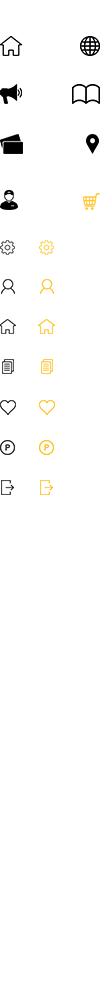
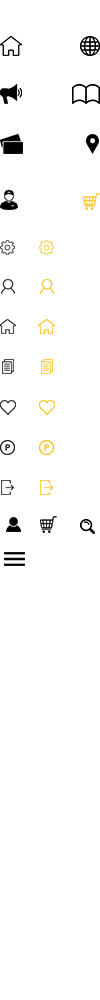
MS-279: index new home mobile part 1

Changed region(s): [[0.03, 0.496, 0.24, 0.589], [0.39, 0.496, 0.54, 0.558], [0.81, 0.496, 0.93, 0.558]]

diff --git a/skin/frontend/indexliving/default/css/responsive.css b/skin/frontend/indexliving/default/css/responsive.css
@@ -643,13 +643,14 @@
     }
 
     #header {
-        background: #252525;
+        background: #ffffff;
         float: left;
         width: 100%;
         padding: 0px;
         position: fixed;
         z-index: 999;
         top: 0;
+        border-bottom: 1px solid #e1e1e1;
     }
 
     #header.fixed {
@@ -671,12 +672,16 @@
         margin: 0px;
         padding: 15px 10px 14px;
         width: 43px;
+        background: #ffc222;
     }
 
-    .toggle-header-content.active {
-        background-color: #343434;
+    #header .icon-menu span{
+        float: left;
+        width: 100%;
+        margin: 0 0 3px;
+        height: 2px;
+        background: #000;
     }
-
     .icon-account.active {
         background: url(../images/icon-account-over2.png) no-repeat 13px 13px #343434
     }
@@ -687,7 +692,7 @@
         height: 44px;
         margin: 0px;
         text-indent: -9999px;
-        background: url(../images/icon-mobile.png) no-repeat 15px 15px;
+        background: url(../images/icon-mobile.png) no-repeat -65px -503px;
     }
 
     .close-box-search {
@@ -711,15 +716,20 @@
         float: left;
         width: 42px;
         height: 44px;
-        background: url(../images/icon-mobile.png) no-repeat -30px 13px;
+        background: url(../images/icon-mobile.png) no-repeat 8px -503px;
     }
 
     .icon-minicart {
-        background-position: -69px 13px;
+        background-position: -27px -503px;
     }
 
     .icon-minicart.active {
         background-position: -69px -180px;
+    }
+
+    #header-nav .nav-primary > li.level0 {
+        width: 100%;
+        border-bottom: 1px solid #ebebeb;
     }
 
     .banner-static-home li {
@@ -775,13 +785,12 @@
     .box-home-list-products .products-grid {
         width: auto;
         max-width: none;
+        padding-right: 20px;
     }
 
     .box-home-list-products .products-grid li.item,
     .recommend-product-list div.item {
-        width: 215px;
         border: solid 1px #EBEBEB;
-        margin-right: 15px;
         padding-bottom: 10px;
     }
 
@@ -818,7 +827,9 @@
         border-bottom: solid 6px transparent;
         border-top: solid 6px transparent;
     }
-
+    .main-home .main-banners .page-container {
+        padding: 0;
+    }
     .main-home .box-home-list-products .banner-right li:nth-child(1),
     .main-home .box-home-list-products .banner-right li:nth-child(2) {
         width: 48%;
@@ -830,6 +841,43 @@
         margin-right: 0px;
     }
 
+    .ideas-inspiration .title-style1 span {
+        font-size: 20px;
+    }
+    .ideas-inspiration .title-style1 span strong{
+        font-size: 22px;
+    }
+
+    .title-style1:before, .ideas-inspiration .title-style1:before {
+        width: 77% !important;
+    }
+
+    .ideas-inspiration .list-ideas ul li, .ideas-inspiration .list-ideas ul li:last-child{
+        width: 100%;
+        border-right: 1px solid #ebebeb;
+    }
+    .ideas-inspiration .owl-carousel .owl-controls .owl-nav .owl-prev {
+        background: url(../images/slider-prev.png) center center no-repeat;
+        background-color: rgba(235,235,235,0.9);
+        background-size: 35%;
+        left: 0;
+    }
+
+    .ideas-inspiration .owl-carousel .owl-controls .owl-nav .owl-next {
+        background: url(../images/slider-next.png) center center no-repeat;
+        background-color: rgba(235,235,235,0.9);
+        background-size: 35%;
+        right: 0;
+    }
+    .ideas-inspiration .owl-carousel .owl-controls .owl-nav .owl-prev:hover {
+        background-color: rgba(255,194,34,0.9);
+    }
+    .ideas-inspiration .owl-carousel .owl-controls .owl-nav .owl-next:hover {
+        background-color: rgba(255,194,34,0.9);
+    }
+    .box-home-list-products .banner-left {
+        display: none;
+    }
     .box-home-decor .home-decor-content {
         padding-top: 30px;
     }
@@ -2576,12 +2624,6 @@
 }
 
 @media (max-width: 640px) {
-    .main-home .box-list-products .products-grid li.item.last {
-        display: block;
-        float: left;
-        margin-right: 0px;
-    }
-
     .products-grid .button.btn-cart > span:before {
         top: 0px;
         background-size: 80px auto;
@@ -3036,6 +3078,9 @@
 }
 
 @media (max-width: 600px) {
+    .title-style1:before, .ideas-inspiration .title-style1:before {
+        width: 65%!important;
+    }
     .compare-popup {
         max-width: 520px;
         margin-left: -260px;
@@ -3068,6 +3113,10 @@
 }
 
 @media (max-width: 480px) {
+
+    .title-style1:before, .ideas-inspiration .title-style1:before {
+        width: 45%!important;
+    }
     .banner-static-home {
         padding: 10px 0;
     }
@@ -3367,6 +3416,9 @@
 }
 
 @media (max-width: 345px) {
+    .title-style1:before, .ideas-inspiration .title-style1:before {
+        width: 27%!important;
+    }
     .cart-table .cart-footer-actions .button {
         font-size: 15px;
     }

diff --git a/skin/frontend/indexliving/default/css/styles.css b/skin/frontend/indexliving/default/css/styles.css
@@ -3585,6 +3585,9 @@ body {
 .ideas-inspiration .title-style1 {
   margin: 0 0 10px
 }
+.ideas-inspiration .title-style1:before {
+  width: 77%;
+}
 .ideas-inspiration .title-style1 span {
   font-size: 30px;
 }
@@ -3602,14 +3605,11 @@ body {
   width: 12.5%;
   text-align: center;
   position: relative;
+  height: 120px;
+  border-right: 1px solid #ebebeb;
 }
-.ideas-inspiration .list-ideas ul li:after {
-  position: absolute;
-  width: 1px;
-  height: 100%;
-  top: 0;
-  right:0;
-  background: #ebebeb;
+.ideas-inspiration .list-ideas ul li:last-child {
+  border: none;
 }
 .ideas-inspiration .list-ideas ul li a{
   display: block;
@@ -3623,6 +3623,7 @@ body {
   display: block;
   clear: both;
   min-height: 45px;
+  margin-bottom: 10px;
 }
 .ideas-inspiration .list-ideas ul li a span.text{
   font-size: 18px;
@@ -3658,10 +3659,10 @@ body {
   background-color: rgba(235,235,235,0.9);
   background-size: 35%;
 }
-.home-blog .owl-carousel .owl-controls .owl-nav .owl-prev.bx-prev:hover, .home-video .owl-carousel .owl-controls .owl-nav .owl-prev.bx-prev:hover {
+.home-blog .owl-carousel .owl-controls .owl-nav .owl-prev:hover, .home-video .owl-carousel .owl-controls .owl-nav .owl-prev:hover {
   background-color: rgba(255,194,34,0.9);
 }
-.home-blog .owl-carousel .owl-controls .owl-nav .owl-prev.bx-next:hover, .home-video .owl-carousel .owl-controls .owl-nav .owl-prev.bx-next:hover {
+.home-blog .owl-carousel .owl-controls .owl-nav .owl-next:hover, .home-video .owl-carousel .owl-controls .owl-nav .owl-next:hover {
   background-color: rgba(255,194,34,0.9);
 }
 .box-home-list-products {float:left; width:100%;}
@@ -3672,13 +3673,23 @@ body {
 .box-home-list-products .best-seller,
 .box-home-list-products .new-arrival {float:left; width:100%;}
 .box-home-list-products .best-seller {margin-bottom:42px;}
+.box-home-list-products .best-seller .title-style1:before{
+  width: 84%;
+}
+.box-home-list-products .new-arrival .title-style1:before{
+  width: 79%;
+}
+.box-home-list-products .best-seller .title-style1 span strong,
+.box-home-list-products .new-arrival .title-style1 span strong{
+  font-size: 26px;
+}
 .box-home-list-products .banner-left {float:left; width: 23.75%;}
 .box-home-list-products .banner-left li{margin-bottom:30px;}
-.title-style1 {float:left; width:100%; margin-bottom:40px; text-align:left; border-bottom:solid 6px #F4F4F4; position:relative; padding-bottom:10px;}
-.title-style1:before {content:""; position:absolute; height:7px; width:165px; background:#FFC222; bottom:-6px; left:0;}
+.title-style1 {float:left; width:100%; margin-bottom:40px; text-align:left; position:relative; }
+.title-style1:before {content:""; position:absolute; height:7px; width:80%; background:#F4F4F4; bottom:4px; right:0;}
 .title-style1 span {display:inline-block; line-height:22px; color:#434343; font-size:24px; text-transform:uppercase; font-weight:normal; }
 .title-style1 span strong{ font-weight: bold; color: #ffc222;}
-.title-style1 a {position:absolute; bottom:0px; right:0px; line-height:22px; color:#919191; font-size:14px; padding-right:15px; z-index:9}
+.title-style1 a {position:absolute; bottom:10px; right:0px; line-height:22px; color:#000; font-weight: normal; font-size:14px; padding-right:15px; z-index:9}
 .title-style1 a:after {content:""; position:absolute; top:7px; right:0px; width:0px; height:0px; border-left:solid 7px #919191; border-bottom:solid 4px transparent; border-top:solid 4px transparent; }
 .title-style1 a:hover {color:#FFC222; text-decoration:none;}
 .title-style1 a:hover:after {border-left-color:#FFC222;}

diff --git a/skin/frontend/indexliving/default/magebuzz/bannerads/css/bx.slider.css b/skin/frontend/indexliving/default/magebuzz/bannerads/css/bx.slider.css
@@ -237,10 +237,10 @@
   .main-banners .wrap-bannerads div.banner .bx-viewport, .main-banners .wrap-bannerads div.banner .bx-viewport img{height: auto !important;}
  }
  @media (max-width: 1060px) {
-  .main-banners .wrap-bannerads .bx-wrapper {padding-left:50px; padding-right:50px;}
+  .main-banners .wrap-bannerads .bx-wrapper {}
   .main-banners .wrap-bannerads div.banner .bx-viewport {width:100%!important;}
-  .main-banners .bx-wrapper .bx-controls-direction a.bx-prev{left:2px; margin-left:0px;}
-  .main-banners .bx-wrapper .bx-controls-direction a.bx-next{right:2px; margin-right:0px;}
+  .main-banners .bx-wrapper .bx-controls-direction a.bx-prev{left:0; margin-left:0px; margin-top: -40px;}
+  .main-banners .bx-wrapper .bx-controls-direction a.bx-next{right:0; margin-right:0px; margin-top: -40px;}
   .main-banners .wrap-bannerads div.banner .bx-viewport:before {left:-50px; margin-left:0px;}
   .main-banners .wrap-bannerads div.banner .bx-viewport:after {right:-50px; margin-right:0px;}
   .main-banners .wrap-bannerads div.banner .bx-viewport:before,
@@ -249,8 +249,10 @@
 }
  @media (max-width: 970px) {
   .main-banners .wrap-bannerads .bx-wrapper .main-banners .wrap-bannerads div.banner .bx-viewport, .main-banners .wrap-bannerads div.banner .bx-viewport img{max-height: 357px !important;}
-  .main-banners .wrap-bannerads .bx-wrapper{height: auto !important;}
-  .wrap-bannerads .bx-viewport .banner-desc{border: solid 1px #EEE;}
+  .main-banners .wrap-bannerads .bx-wrapper{}
+  .wrap-bannerads .bx-viewport .banner-desc{
+      display: none;
+  }
   .main-banners .bx-wrapper .bx-pager.bx-default-pager {  bottom: 15px;}
   .wrap-bannerads .bx-viewport .banner-desc::before{display: none;}
  }
@@ -261,15 +263,15 @@
 }
 
  @media (max-width: 480px) {
-  .main-banners .wrap-bannerads .bx-wrapper {padding-left:15px; padding-right:15px;}
-  .main-banners .wrap-bannerads div.banner .bx-viewport:before {left:-15px;}
-  .main-banners .wrap-bannerads div.banner .bx-viewport:after {right:-15px;}
+  .main-banners .wrap-bannerads .bx-wrapper {}
+  .main-banners .wrap-bannerads div.banner .bx-viewport:before {}
+  .main-banners .wrap-bannerads div.banner .bx-viewport:after {}
   .main-banners .wrap-bannerads div.banner .bx-viewport:before,
-  .main-banners .wrap-bannerads div.banner .bx-viewport:after {width:15px;}
+  .main-banners .wrap-bannerads div.banner .bx-viewport:after {}
   .main-banners .bx-wrapper .bx-controls-direction a.bx-prev,
-  .main-banners .bx-wrapper .bx-controls-direction a.bx-next  {width: 10px; background-size: 100% auto;}
+  .main-banners .bx-wrapper .bx-controls-direction a.bx-next  {}
   .main-banners .bx-wrapper .bx-pager.bx-default-pager {bottom:0px;}
-  .bx-wrapper .bx-pager.bx-default-pager a {width:6px; height:6px; margin:0px 2px;}
+  .bx-wrapper .bx-pager.bx-default-pager a {width:8px; height:8px; margin:0px 5px;}
  }
 
 

diff --git a/skin/frontend/indexliving/default/magebuzz/bannerads/css/bannerads.css b/skin/frontend/indexliving/default/magebuzz/bannerads/css/bannerads.css
@@ -25,7 +25,7 @@
   position: relative;
   z-index: 1;
 }
-.wrap-bannerads .bx-viewport .banner-desc{position:absolute; bottom:15px;}
+.wrap-bannerads .bx-viewport .banner-desc{position:absolute; bottom:15px; max-width:440px; max-height:280px; padding:25px; background:url('images/banner-desc-bg.png') top left repeat; text-align:left;}
 .wrap-bannerads .bx-viewport .banner-desc.top-left{top:0; left:0;}
 .wrap-bannerads .bx-viewport .banner-desc.top-center{top:20px; left:50%; margin-left:-220px;}
 .wrap-bannerads .bx-viewport .banner-desc.top-right{top:0; right:0;}
@@ -36,12 +36,12 @@
 .wrap-bannerads .bx-viewport .banner-desc.bottom-center{bottom:0; left:50%; margin-left:-220px;}
 .wrap-bannerads .bx-viewport .banner-desc.bottom-right{bottom:0; right:0;}
 .wrap-bannerads .bx-viewport .banner-desc::before{
-	/*background: url('images/i-plus-orange.png') top left no-repeat;*/
-	/*content: "";*/
-	/*height: 43px;*/
-	/*width: 43px;*/
-	/*position: absolute;*/
-	/*top: -13px;*/
+	background: url('images/i-plus-orange.png') top left no-repeat;
+	content: "";
+	height: 43px;
+	width: 43px;
+	position: absolute;
+	top: -13px;
 }
 .wrap-bannerads .bx-viewport .banner-desc.top-left::before, .wrap-bannerads .bx-viewport .banner-desc.middle-left::before,.wrap-bannerads .bx-viewport .banner-desc.top-left::before, .wrap-bannerads .bx-viewport .banner-desc.bottom-left::before{right:-13px;}
 .wrap-bannerads .bx-viewport .banner-desc.top-right::before, .wrap-bannerads .bx-viewport .banner-desc.middle-right::before,.wrap-bannerads .bx-viewport .banner-desc.top-right::before, .wrap-bannerads .bx-viewport .banner-desc.bottom-right::before,

diff --git a/skin/frontend/indexliving/default/css/owl.carousel.css b/skin/frontend/indexliving/default/css/owl.carousel.css
@@ -228,7 +228,7 @@
 
 .owl-carousel {position:relative!important;}
 .owl-carousel .owl-controls .owl-nav .owl-prev{
-  left: -20px;
+  left: 0;
   background:url(../images/slider-prev3.png) no-repeat 0 0;
 }
 .owl-carousel .owl-controls .owl-nav .owl-prev:hover {
@@ -236,11 +236,11 @@
 }
 
 .owl-carousel .owl-controls .owl-nav .owl-next {
-  right: -20px;
+  right: 0;
   background:url(../images/slider-next3.png) no-repeat 100% 0;
 }
 .owl-carousel .owl-controls .owl-nav .owl-next:hover {
-  right: -20px;
+  right: 0;
   background:url(../images/slider-prev3.png) no-repeat 100% 0;
 }
 

diff --git a/skin/frontend/indexliving/default/js/custom-home.js b/skin/frontend/indexliving/default/js/custom-home.js
@@ -9,10 +9,4 @@ jQuery(document).ready(function () {
     jQuery(".box-menu-home .menu-content").remove();
   }
   
-  jQuery(".box-list-products .category-products .block-content, .box-home-list-products .nav-primary li.level0 ul.level0").mCustomScrollbar({
-    axis:"x",
-    advanced:{autoExpandHorizontalScroll:true},
-    callbacks:{onScroll: function() {jQuery(this).find('img.lazy').jail();}}
-  });
-  
 });
